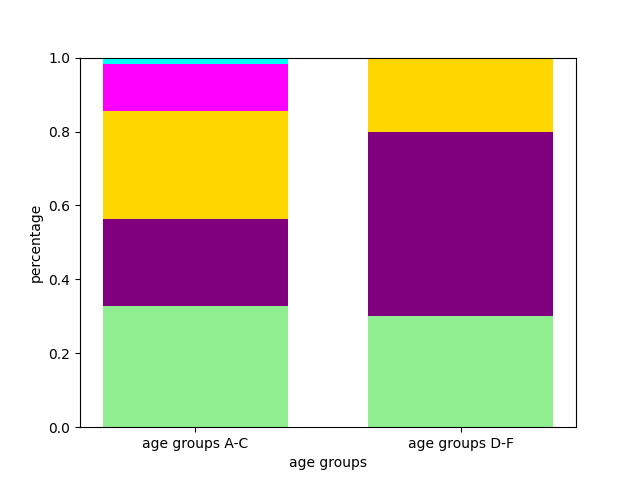
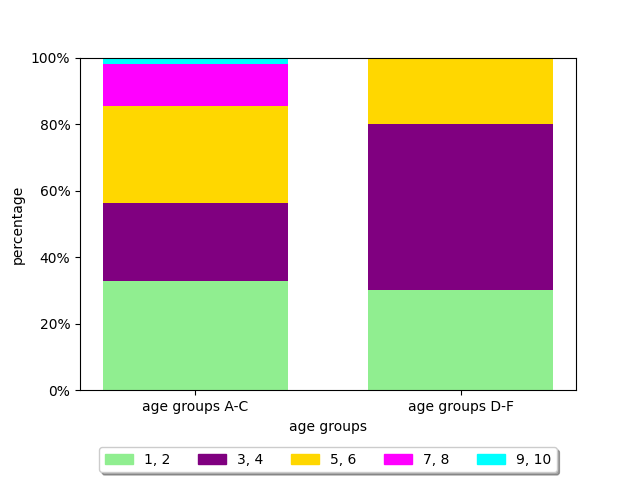
changed some labels etc. of diagrams

diff --git a/create_bar_charts.py b/create_bar_charts.py
@@ -194,16 +194,18 @@ def create_age_time_bar_chart():
     ax.bar(Pos + 0.00, book_data[0], color='lightgreen', width=0.25)
     ax.bar(Pos + 0.25, book_data[1], color='orange', width=0.25)
     ax.set_xticks([0, 1, 2, 3, 4])
-    ax.set_xticklabels(['in the morning', 'at noon', 'in the\nafternoon', 'in the\nevening', 'at night'])
-    ax.set_yticks([0.0, 0.1, 0.2, 0.3, 0.4, 0.5, 0.6, 0.7, 0.8, 0.9, 1.0])
-    ax.set_ylabel('amount')
+    ax.set_xticklabels(['in the\nmorning', 'at noon', 'in the\nafternoon', 'in the\nevening', 'at night'])
+    ax.set_yticks([0.0, 0.2, 0.4, 0.6, 0.8, 1.0])
+    ax.set_yticklabels(['0%', '20%', '40%', '60%', '80%', '100%'])
+    ax.set_ylabel('percentage')
+    ax.set_xlabel('part of the day')
     # plt.text(-0.5, -1.7, '* of getting physically active after the activity')
 
     younger_patch = mpatches.Patch(color='lightgreen', label='age groups A-C')
     older_patch = mpatches.Patch(color='orange', label='age groups D-F')
 
     box = ax.get_position()
-    ax.set_position([box.x0, box.y0 + box.height * 0.1, box.width, box.height * 0.9])
+    ax.set_position([box.x0, box.y0 + box.height * 0.1, box.width, box.height])
     ax.legend(handles=[younger_patch, older_patch], loc='upper center', bbox_to_anchor=(0.5, -0.15), fancybox=True, shadow=True, ncol=5)
 
     plt.savefig('diagrams/bar_charts/age_time_book.png')
@@ -222,16 +224,18 @@ def create_age_time_bar_chart():
     ax.bar(Pos + 0.00, movie_data[0], color='lightgreen', width=0.25)
     ax.bar(Pos + 0.25, movie_data[1], color='orange', width=0.25)
     ax.set_xticks([0, 1, 2, 3, 4])
-    ax.set_xticklabels(['in the morning', 'at noon', 'in the\nafternoon', 'in the\nevening', 'at night'])
-    ax.set_yticks([0.0, 0.1, 0.2, 0.3, 0.4, 0.5, 0.6, 0.7, 0.8, 0.9, 1.0])
-    ax.set_ylabel('amount')
+    ax.set_xticklabels(['in the\nmorning', 'at noon', 'in the\nafternoon', 'in the\nevening', 'at night'])
+    ax.set_yticks([0.0, 0.2, 0.4, 0.6, 0.8, 1.0])
+    ax.set_yticklabels(['0%', '20%', '40%', '60%', '80%', '100%'])
+    ax.set_ylabel('percentage')
+    ax.set_xlabel('part of the day')
     # plt.text(-0.5, -1.7, '* of getting physically active after the activity')
 
     younger_patch = mpatches.Patch(color='lightgreen', label='age groups A-C')
     older_patch = mpatches.Patch(color='orange', label='age groups D-F')
 
     box = ax.get_position()
-    ax.set_position([box.x0, box.y0 + box.height * 0.1, box.width, box.height * 0.9])
+    ax.set_position([box.x0, box.y0 + box.height * 0.1, box.width, box.height])
     ax.legend(handles=[younger_patch, older_patch], loc='upper center', bbox_to_anchor=(0.5, -0.15), fancybox=True, shadow=True, ncol=5)
 
     plt.savefig('diagrams/bar_charts/age_time_movie.png')
@@ -330,9 +334,19 @@ def create_age_symptoms_stacked_bar_chart():
     ax.bar(labels, often, width, bottom=np.array(never)+np.array(seldom)+np.array(sometimes), label='often', color='magenta')
     ax.bar(labels, very_often, width, bottom=np.array(never)+np.array(seldom)+np.array(sometimes)+np.array(often), label='very often', color='cyan')
 
+    ax.set_yticklabels(['0%', '20%', '40%', '60%', '80%', '100%'])
     ax.set_ylabel('percentage')
     ax.set_xlabel('age groups')
-    # ax.legend()
+    
+    never_patch = mpatches.Patch(color='lightgreen', label='never')
+    seldom_patch = mpatches.Patch(color='purple', label='seldom')
+    sometimes_patch = mpatches.Patch(color='gold', label='sometimes')
+    often_patch = mpatches.Patch(color='magenta', label='often')
+    very_often_patch = mpatches.Patch(color='cyan', label='very often')
+
+    box = ax.get_position()
+    ax.set_position([box.x0, box.y0 + box.height * 0.1, box.width, box.height * 0.9])
+    ax.legend(handles=[never_patch, seldom_patch, sometimes_patch, often_patch, very_often_patch], loc='upper center', bbox_to_anchor=(0.5, -0.15), fancybox=True, shadow=True, ncol=5)
 
     plt.savefig('diagrams/bar_charts/age_symptoms_book_version_2.png')
 
@@ -360,9 +374,20 @@ def create_age_symptoms_stacked_bar_chart():
     ax.bar(labels, often, width, bottom=np.array(never)+np.array(seldom)+np.array(sometimes), label='often', color='magenta')
     ax.bar(labels, very_often, width, bottom=np.array(never)+np.array(seldom)+np.array(sometimes)+np.array(often), label='very often', color='cyan')
 
+    ax.set_yticklabels(['0%', '20%', '40%', '60%', '80%', '100%'])
     ax.set_ylabel('percentage')
     ax.set_xlabel('age groups')
-    # ax.legend()
+
+    never_patch = mpatches.Patch(color='lightgreen', label='never')
+    seldom_patch = mpatches.Patch(color='purple', label='seldom')
+    sometimes_patch = mpatches.Patch(color='gold', label='sometimes')
+    often_patch = mpatches.Patch(color='magenta', label='often')
+    very_often_patch = mpatches.Patch(color='cyan', label='very often')
+
+    box = ax.get_position()
+    ax.set_position([box.x0, box.y0 + box.height * 0.1, box.width, box.height * 0.9])
+    ax.legend(handles=[never_patch, seldom_patch, sometimes_patch, often_patch, very_often_patch], loc='upper center', bbox_to_anchor=(0.5, -0.15), fancybox=True, shadow=True, ncol=5)
+
 
     plt.savefig('diagrams/bar_charts/age_symptoms_movie_version_2.png')
 
@@ -397,9 +422,19 @@ def create_age_snacks_stacked_bar_chart():
     ax.bar(labels, often, width, bottom=np.array(never)+np.array(seldom)+np.array(sometimes), label='often', color='magenta')
     ax.bar(labels, very_often, width, bottom=np.array(never)+np.array(seldom)+np.array(sometimes)+np.array(often), label='very often', color='cyan')
 
+    ax.set_yticklabels(['0%', '20%', '40%', '60%', '80%', '100%'])
     ax.set_ylabel('percentage')
     ax.set_xlabel('age groups')
-    # ax.legend()
+    
+    never_patch = mpatches.Patch(color='lightgreen', label='never')
+    seldom_patch = mpatches.Patch(color='purple', label='seldom')
+    sometimes_patch = mpatches.Patch(color='gold', label='sometimes')
+    often_patch = mpatches.Patch(color='magenta', label='often')
+    very_often_patch = mpatches.Patch(color='cyan', label='very often')
+
+    box = ax.get_position()
+    ax.set_position([box.x0, box.y0 + box.height * 0.1, box.width, box.height * 0.9])
+    ax.legend(handles=[never_patch, seldom_patch, sometimes_patch, often_patch, very_often_patch], loc='upper center', bbox_to_anchor=(0.5, -0.15), fancybox=True, shadow=True, ncol=5)
 
     plt.savefig('diagrams/bar_charts/age_snacks_book_version_2.png')
 
@@ -427,9 +462,20 @@ def create_age_snacks_stacked_bar_chart():
     ax.bar(labels, often, width, bottom=np.array(never)+np.array(seldom)+np.array(sometimes), label='often', color='magenta')
     ax.bar(labels, very_often, width, bottom=np.array(never)+np.array(seldom)+np.array(sometimes)+np.array(often), label='very often', color='cyan')
 
+    ax.set_yticklabels(['0%', '20%', '40%', '60%', '80%', '100%'])
     ax.set_ylabel('percentage')
     ax.set_xlabel('age groups')
-    # ax.legend()
+    
+    never_patch = mpatches.Patch(color='lightgreen', label='never')
+    seldom_patch = mpatches.Patch(color='purple', label='seldom')
+    sometimes_patch = mpatches.Patch(color='gold', label='sometimes')
+    often_patch = mpatches.Patch(color='magenta', label='often')
+    very_often_patch = mpatches.Patch(color='cyan', label='very often')
+
+    box = ax.get_position()
+    ax.set_position([box.x0, box.y0 + box.height * 0.1, box.width, box.height * 0.9])
+    ax.legend(handles=[never_patch, seldom_patch, sometimes_patch, often_patch, very_often_patch], loc='upper center', bbox_to_anchor=(0.5, -0.15), fancybox=True, shadow=True, ncol=5)
+
 
     plt.savefig('diagrams/bar_charts/age_snacks_movie_version_2.png')
 
@@ -464,9 +510,19 @@ def create_age_motivation_stacked_bar_chart():
     ax.bar(labels, often, width, bottom=np.array(never)+np.array(seldom)+np.array(sometimes), label='often', color='magenta')
     ax.bar(labels, very_often, width, bottom=np.array(never)+np.array(seldom)+np.array(sometimes)+np.array(often), label='very often', color='cyan')
 
+    ax.set_yticklabels(['0%', '20%', '40%', '60%', '80%', '100%'])
     ax.set_ylabel('percentage')
     ax.set_xlabel('age groups')
-    # ax.legend()
+    
+    never_patch = mpatches.Patch(color='lightgreen', label='1, 2')
+    seldom_patch = mpatches.Patch(color='purple', label='3, 4')
+    sometimes_patch = mpatches.Patch(color='gold', label='5, 6')
+    often_patch = mpatches.Patch(color='magenta', label='7, 8')
+    very_often_patch = mpatches.Patch(color='cyan', label='9, 10')
+
+    box = ax.get_position()
+    ax.set_position([box.x0, box.y0 + box.height * 0.1, box.width, box.height * 0.9])
+    ax.legend(handles=[never_patch, seldom_patch, sometimes_patch, often_patch, very_often_patch], loc='upper center', bbox_to_anchor=(0.5, -0.15), fancybox=True, shadow=True, ncol=5)
 
     plt.savefig('diagrams/bar_charts/age_motivation_book_version_2.png')
 
@@ -494,9 +550,19 @@ def create_age_motivation_stacked_bar_chart():
     ax.bar(labels, often, width, bottom=np.array(never)+np.array(seldom)+np.array(sometimes), label='often', color='magenta')
     ax.bar(labels, very_often, width, bottom=np.array(never)+np.array(seldom)+np.array(sometimes)+np.array(often), label='very often', color='cyan')
 
+    ax.set_yticklabels(['0%', '20%', '40%', '60%', '80%', '100%'])
     ax.set_ylabel('percentage')
     ax.set_xlabel('age groups')
-    # ax.legend()
+    
+    never_patch = mpatches.Patch(color='lightgreen', label='1, 2')
+    seldom_patch = mpatches.Patch(color='purple', label='3, 4')
+    sometimes_patch = mpatches.Patch(color='gold', label='5, 6')
+    often_patch = mpatches.Patch(color='magenta', label='7, 8')
+    very_often_patch = mpatches.Patch(color='cyan', label='9, 10')
+
+    box = ax.get_position()
+    ax.set_position([box.x0, box.y0 + box.height * 0.1, box.width, box.height * 0.9])
+    ax.legend(handles=[never_patch, seldom_patch, sometimes_patch, often_patch, very_often_patch], loc='upper center', bbox_to_anchor=(0.5, -0.15), fancybox=True, shadow=True, ncol=5)
 
     plt.savefig('diagrams/bar_charts/age_motivation_movie_version_2.png')
 
@@ -516,12 +582,12 @@ def main():
 
     # create_mean_bar_chart_with_multiple_bars()
 
-    # create_age_time_bar_chart()
+    create_age_time_bar_chart()
     # create_age_symptoms_bar_chart()
 
     # create_age_symptoms_stacked_bar_chart()
     # create_age_snacks_stacked_bar_chart()
-    create_age_motivation_stacked_bar_chart()
+    # create_age_motivation_stacked_bar_chart()
 
 
 if __name__ == main():
